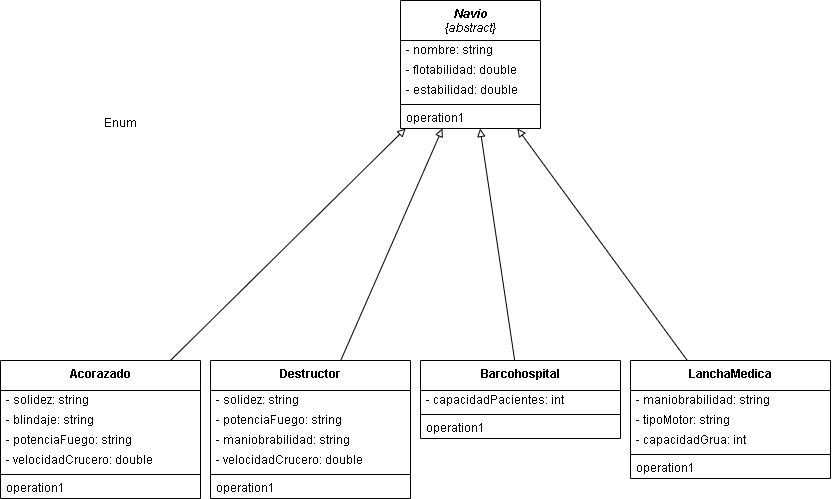
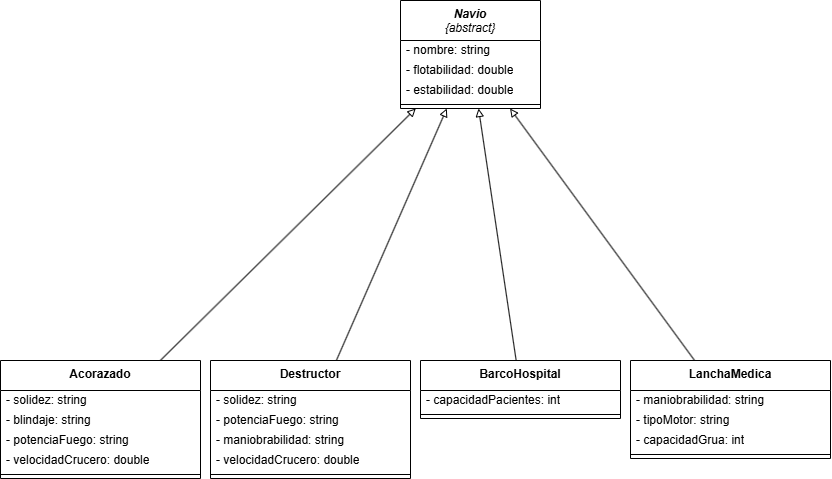
Subimos el Ejercicio 15 Completo

diff --git a/src/Guia01/EJ15/Program.cs b/src/Guia01/EJ15/Program.cs
@@ -7,9 +7,7 @@ Gastón Ricchiardi (gastonj@hotmail.com)
     - "La gaucha" y "El gaucho" son dos lanchas destinadas a brindar servicio médico que se emplean para salvatajes rápidos; poseen motor fuera de borda, una elevada flotabilidad que le permite ir muy rápido, aunque debido a que la estabilidad no es muy buena, la maniobrabilidad se ve afectada; ambas poseen una grúa pequeña que les permite subir y/o arriar objetos de hasta trescientos kilos.
 
     Analizar, diseñar, diagramar las relaciones e implementar el código.
-    Crear instancias de los distintos barcos, asignar valores y mostrar por pantalla.
-
-*/
+    Crear instancias de los distintos barcos, asignar valores y mostrar por pantalla.*/
 public class Program
 {
     public static void Main()
@@ -33,6 +31,7 @@ public class Program
         Console.WriteLine($"Estabilidad      : {acorazado.Estabilidad}");
         // Agregamos lo nuevo
         Console.WriteLine($"Solidez          : {acorazado.Solidez}");
+        Console.WriteLine($"Blindaje         : {acorazado.Blindaje}");
         Console.WriteLine($"Potencia de fuego: {acorazado.PotenciaFuego}");
         Console.WriteLine($"Velocidad crucero: {acorazado.VelocidadCrucero}");
 
@@ -49,16 +48,63 @@ public class Program
                 );
 
         Console.WriteLine("DESTRUCTOR");
-        Console.WriteLine($"Nombre: {destructor.Nombre}");
-        Console.WriteLine($"Flotabilidad: {destructor.Flotabilidad}");
-        Console.WriteLine($"Estabilidad: {destructor.Estabilidad}");
-        Console.WriteLine($"Solidez: {destructor.Solidez}");
+        Console.WriteLine($"Nombre           : {destructor.Nombre}");
+        Console.WriteLine($"Flotabilidad     : {destructor.Flotabilidad}");
+        Console.WriteLine($"Estabilidad      : {destructor.Estabilidad}");
+        Console.WriteLine($"Solidez          : {destructor.Solidez}");
         Console.WriteLine($"Potencia de fuego: {destructor.PotenciaFuego}");
-        Console.WriteLine($"Maniobrabilidad: {destructor.Maniobrabilidad}");
+        Console.WriteLine($"Maniobrabilidad  : {destructor.Maniobrabilidad}");
         Console.WriteLine($"Velocidad crucero: {destructor.VelocidadCrucero}");
+
+        Console.WriteLine();
+        // Creamos el BarcoHospital
+        BarcoHospital sibelancia = new BarcoHospital(
+                    "Sibelancia",
+                    "Excelente",
+                    "Extrema",
+                    75
+                );
+
+        Console.WriteLine("BARCO HOSPITAL");
+        Console.WriteLine($"Nombre               : {sibelancia.Nombre}");
+        Console.WriteLine($"Flotabilidad         : {sibelancia.Flotabilidad}");
+        Console.WriteLine($"Estabilidad          : {sibelancia.Estabilidad}");
+        Console.WriteLine($"Cantidad de pacientes: {sibelancia.CapacidadPacientes}");
+
+        Console.WriteLine();
+        // Lancha médica "laGaucha"
+        LanchaMedica laGaucha = new LanchaMedica(
+            "La Gaucha",
+            "Elevada",
+            "No muy buena",
+            "Afectada",
+            "Fuera de borda",
+            300
+        );
+        Console.WriteLine("LANCHA MÉDICA");
+        Console.WriteLine($"Nombre         : {laGaucha.Nombre}");
+        Console.WriteLine($"Flotabilidad   : {laGaucha.Flotabilidad}");
+        Console.WriteLine($"Estabilidad    : {laGaucha.Estabilidad}");
+        Console.WriteLine($"Maniobrabilidad: {laGaucha.Maniobrabilidad}");
+        Console.WriteLine($"Tipo de motor  : {laGaucha.TipoMotor}");
+        Console.WriteLine($"Capacidad grúa : {laGaucha.CapacidadGrua} kg.");
+
+        Console.WriteLine();
+        // Lancha médica "elGaucho"
+        LanchaMedica elGaucho = new LanchaMedica(
+            "El Gaucho",
+            "Elevada",
+            "No muy buena",
+            "Afectada",
+            "Fuera de borda",
+            300
+        );
+        Console.WriteLine("LANCHA MÉDICA");
+        Console.WriteLine($"Nombre         : {elGaucho.Nombre}");
+        Console.WriteLine($"Flotabilidad   : {elGaucho.Flotabilidad}");
+        Console.WriteLine($"Estabilidad    : {elGaucho.Estabilidad}");
+        Console.WriteLine($"Maniobrabilidad: {elGaucho.Maniobrabilidad}");
+        Console.WriteLine($"Tipo de motor  : {elGaucho.TipoMotor}");
+        Console.WriteLine($"Capacidad grúa : {elGaucho.CapacidadGrua} kg.");
     }
-
-
-
 }
-

diff --git a/src/Guia01/EJ15/Acorazado.cs b/src/Guia01/EJ15/Acorazado.cs
@@ -4,33 +4,35 @@ public class Acorazado : Navio
 {
     // 1. CAMPOS / ATRIBUTOS
     private string solidez = "";
+    private string blindaje = "";
     private string potenciaFuego = "";
-    private string maniobrabilidad = "";
     private double velocidadCrucero;
+
     // 2. CONSTRUCTOR
     public Acorazado(
         string nombre,
         string flotabilidad,
         string estabilidad,
         string solidez,
+        string blindaje,
         string potenciaFuego,
-    string maniobrabilidad,
         double velocidadCrucero
     ) : base(nombre, flotabilidad, estabilidad)
     {
         this.solidez = solidez;
+        this.blindaje = blindaje;
         this.potenciaFuego = potenciaFuego;
-        this.maniobrabilidad = maniobrabilidad;
         this.velocidadCrucero = velocidadCrucero;
     }
 
     // 3. PROPIEDADES / GETTERS Y SETTERS
     public string Solidez { get => solidez; }
+
+    public string Blindaje { get => blindaje; }
+
     public string PotenciaFuego { get => potenciaFuego; }
-    public string Maniobrabilidad { get => maniobrabilidad; }
+
     public double VelocidadCrucero { get => velocidadCrucero; }
 
-
     // 4. MÉTODOS
-    // Comportamiento del objeto.
 }

diff --git a/src/Guia01/EJ15/LanchaMedica.cs b/src/Guia01/EJ15/LanchaMedica.cs
@@ -1,0 +1,32 @@
+// src/Guia01/EJ15/LanchaMedica.cs
+public class LanchaMedica : Navio
+{
+    // 1. CAMPOS / ATRIBUTOS
+    private string maniobrabilidad = "";
+    private string tipoMotor = "";
+    private int capacidadGrua;
+
+    // 2. CONSTRUCTOR
+
+    public LanchaMedica(
+        string nombre,
+        string flotabilidad,
+        string estabilidad,
+        string maniobrabilidad,
+        string tipoMotor,
+        int capacidadGrua
+    ) : base(nombre, flotabilidad, estabilidad)
+    {
+        this.maniobrabilidad = maniobrabilidad;
+        this.tipoMotor = tipoMotor;
+        this.capacidadGrua = capacidadGrua;
+    }
+
+    // 3. PROPIEDADES / GETTERS Y SETTERS
+    public string Maniobrabilidad { get => maniobrabilidad; }
+    public string TipoMotor { get => tipoMotor; }
+    public int CapacidadGrua { get => capacidadGrua; }
+
+    // 4. MÉTODOS
+    // Comportamiento del objeto.
+}

diff --git a/src/Guia01/EJ15/BarcoHospital.cs b/src/Guia01/EJ15/BarcoHospital.cs
@@ -1,0 +1,24 @@
+// src/Guia01/EJ15/BarcoHospital.cs
+
+public class BarcoHospital : Navio
+{
+    // 1. CAMPOS / ATRIBUTOS
+    private int capacidadPacientes;
+
+    // 2. CONSTRUCTOR
+    public BarcoHospital(
+        string nombre,
+        string flotabilidad,
+        string estabilidad,
+        int capacidadPacientes
+    ) : base(nombre, flotabilidad, estabilidad)
+    {
+        this.capacidadPacientes = capacidadPacientes;
+    }
+    // 3. PROPIEDADES / GETTERS Y SETTERS
+    public int CapacidadPacientes
+    {
+        get => capacidadPacientes;
+    }
+    // 4. MÉTODOS
+}

diff --git a/src/Guia01/EJ15/Navio.cs b/src/Guia01/EJ15/Navio.cs
@@ -20,13 +20,12 @@ public abstract class Navio
         this.estabilidad = estabilidad;
     }
 
+    // 3. PROPIEDADES / GETTERS Y SETTERS
     public string Nombre { get => nombre; }
     public string Flotabilidad { get => flotabilidad; }
     public string Estabilidad { get => estabilidad; }
 
 
-    // 3. PROPIEDADES / GETTERS Y SETTERS
-    // Formas de exponer o modificar el estado.
 
     // 4. MÉTODOS
     // Comportamiento del objeto.

diff --git a/baseDelProyecto.md b/baseDelProyecto.md
@@ -196,7 +196,7 @@ Ese sí lo podemos tomar como base C# para seguir.
 
 ```
 
-$salida = "dump_EJ13.txt"
+$salida = "dump_EJ15.txt"
 
 # Solo archivos .cs reales del proyecto.
 # Excluye carpetas generadas por .NET: bin y obj.
